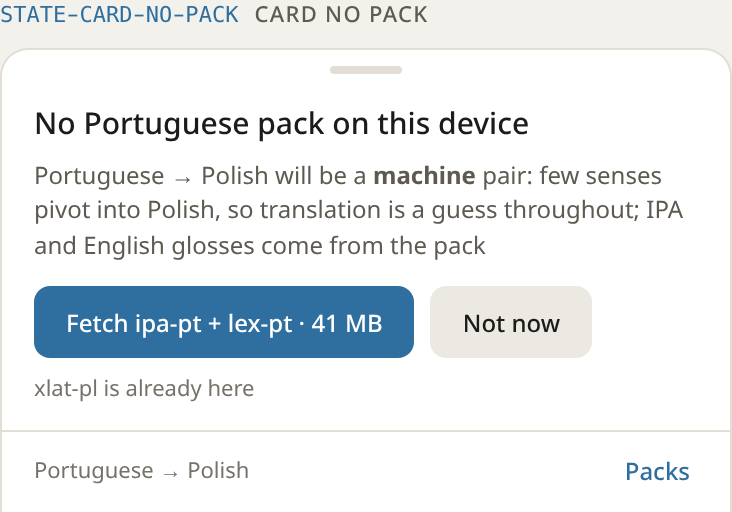
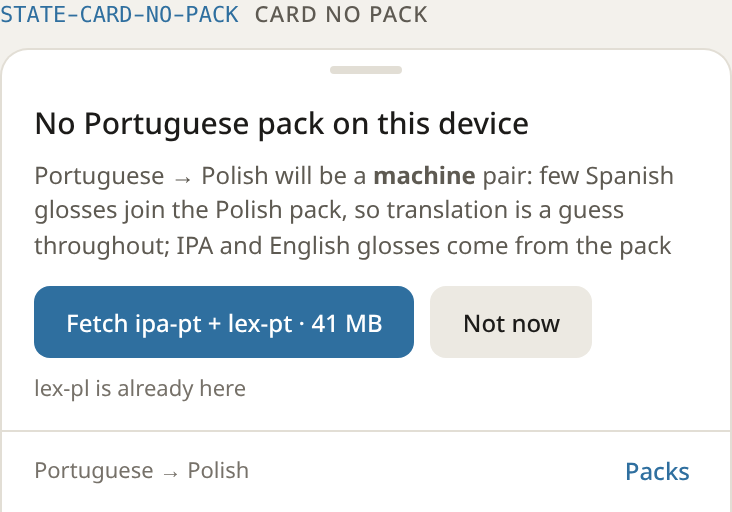
bring the model and the page in line with the gloss join

Changed region(s): [[0.0301, 0.3125, 0.9317, 0.5], [0.0301, 0.75, 0.3607, 0.7812]]

diff --git a/docs/merge/surface.html b/docs/merge/surface.html
@@ -594,7 +594,7 @@ body { font-family: var(--font-ui); font-size: var(--font-size-body); line-heigh
           <div class="headline"><span class="tr">czytelnia</span><span class="badge guess">guess</span></div>
           <div class="anchor-en"><a class="badge dict" href="#" aria-label="Source: Wiktionary, English gloss. Opens the entry on Wiktionary."><span class="mark-slot" aria-hidden="true" title="Wikipedia W letterform, asset pinned in data/marks.json">W</span></a><span class="anchor-label">in English</span><span class="anchor-gl">reading room</span></div>
           <div class="ipa-row"><span class="ipa"><span class="delim">[</span><button class="sym c">l</button><button class="sym v">eː</button><button class="sym c">z</button><button class="sym v">ə</button><button class="sym c">z</button><button class="sym v">aː</button><button class="sym c">l</button><span class="delim">]</span></span><button class="audio" aria-label="Play"><svg viewBox="0 0 20 20"><path d="M4 2l14 8-14 8z"/></svg></button><span class="ipa-note">recording</span></div>
-          <div class="gram"><span class="lemma">der Lesesaal</span><span class="chip">noun</span><span class="g-sub">German → Polish is a <b>partial</b> pair: the English pivot found no confident Polish word for this sense, so the headline is a machine guess</span></div>
+          <div class="gram"><span class="lemma">der Lesesaal</span><span class="chip">noun</span><span class="g-sub">German → Polish is a <b>partial</b> pair: this sense&#8217;s gloss does not join the Polish pack confidently, so the headline is a machine guess</span></div>
         </header>
         <div class="card-body">
           <p class="ex"><q>Der Lesesaal ist bis 22 Uhr geöffnet.</q><span class="ex-tr">The reading room is open until 10 pm.</span></p>
@@ -740,10 +740,10 @@ body { font-family: var(--font-ui); font-size: var(--font-size-body); line-heigh
         <div class="card-handle"></div>
         <header class="card-head">
           <div class="headline"><span class="tr quiet">No Portuguese pack on this device</span></div>
-          <div class="gram"><span class="g-sub">Portuguese → Polish will be a <b>machine</b> pair: few senses pivot into Polish, so translation is a guess throughout; IPA and English glosses come from the pack</span></div>
+          <div class="gram"><span class="g-sub">Portuguese → Polish will be a <b>machine</b> pair: few Spanish glosses join the Polish pack, so translation is a guess throughout; IPA and English glosses come from the pack</span></div>
         </header>
         <div class="card-body">
-          <div class="btn-row"><button class="btn">Fetch ipa-pt + lex-pt · 41 MB</button><button class="btn secondary">Not now</button><span class="ipa-note">xlat-pl is already here</span></div>
+          <div class="btn-row"><button class="btn">Fetch ipa-pt + lex-pt · 41 MB</button><button class="btn secondary">Not now</button><span class="ipa-note">lex-pl is already here</span></div>
         </div>
         <footer class="card-foot"><span>Portuguese → Polish</span><span class="actions"><button class="btn-text">Packs</button></span></footer>
       </article>
